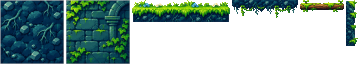
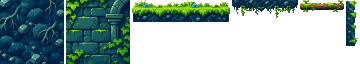
앞 실루엣 위쪽 잎을 화면 맨 위에 붙임, 지형 질감 가장자리 이음매 제거
Claude-Session: https://claude.ai/code/session_01CPuQwRxjahy2BkbhjWZhoU

Changed region(s): [[0.0, 0.0, 0.3667, 1.0]]

diff --git a/index.html b/index.html
@@ -1433,7 +1433,11 @@ function render() {
   glow(p.x + p.dir * 2, p.y - 30, 18, C.flame1, 0.3); glow(p.x, p.y - 12, 34, C.flame0, 0.12);
   drawFxFront();
   g.restore(); lg.restore();
-  if (ready(ch1Img.front)) layer(ch1Img.front, CH1.front[0], CH1.front[1], 1.2, 22);   // 앞 덤불 실루엣
+  if (ready(ch1Img.front)) {                                     // 앞 실루엣: 위쪽 잎은 화면 맨 위에 붙이고, 아래 덤불만 바닥 쪽으로 내린다
+    const fw = CH1.front[0], fh = CH1.front[1];
+    g.save(); g.beginPath(); g.rect(0, 0, W, H / 2); g.clip(); layer(ch1Img.front, fw, fh, 1.2, -46); g.restore();
+    g.save(); g.beginPath(); g.rect(0, H / 2, W, H / 2); g.clip(); layer(ch1Img.front, fw, fh, 1.2, 22); g.restore();
+  }
   for (const m of embers) if (m.near) { g.fillStyle = "#f2ffc8"; g.fillRect(Math.round(m.x), Math.round(m.y), 2, 2); glow(m.x, m.y, 7, "#c8ff9a", 0.35 + 0.25 * Math.sin(time * 4 + m.ph)); }
   g.drawImage(vignette, 0, 0);
   if (whiteT > 0) { lg.fillStyle = "rgba(190,230,255,0.35)"; lg.fillRect(0, 0, W, H); }

diff --git a/art/ch1/ch1_cut.py b/art/ch1/ch1_cut.py
@@ -22,7 +22,10 @@ sq = sorted([s for s in boxes if 0.6 < asp(s) < 1.6], key=lambda s: s[1].start)
 hz = sorted([s for s in boxes if asp(s) >= 2.2], key=lambda s: s[0].start)
 vt = [s for s in boxes if asp(s) <= 0.45]
 print("pieces", len(sq), len(hz), len(vt))
-cut = lambda s: rgba(a[s], m[s] * 255); full = lambda s: rgba(a[s], np.full(m[s].shape, 255))
+cut = lambda s: rgba(a[s], m[s] * 255)
+def full(s):                                  # 질감은 가장자리 테두리를 6% 잘라내고 통째로 (이음매 줄 방지)
+    h, w = s[0].stop - s[0].start, s[1].stop - s[1].start; s = (slice(s[0].start + h * 6 // 100, s[0].stop - h * 6 // 100), slice(s[1].start + w * 6 // 100, s[1].stop - w * 6 // 100))
+    return rgba(a[s], np.full((s[0].stop - s[0].start, s[1].stop - s[1].start), 255))
 out = {"fill": (full(sq[0]), (64, 64)), "back": (full(sq[1]), (64, 64))}
 for name, s, h in (("top", hz[0], 22), ("under", hz[1], 18), ("plank", hz[2], 12)):
     p = cut(s); p = p.crop(p.getbbox()); out[name] = (p, (round(p.width * h / p.height), h))
